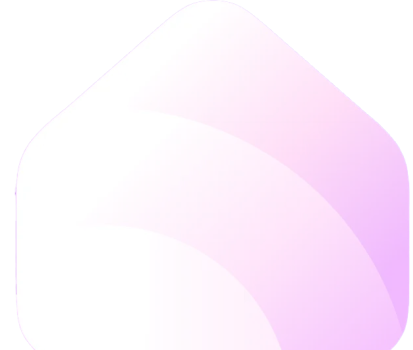
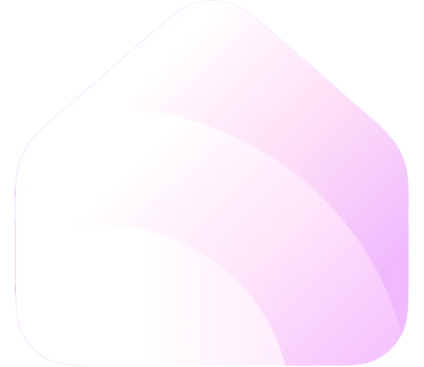
xXx

diff --git a/scss/style.scss b/scss/style.scss
@@ -723,8 +723,8 @@ h1 {
 .lights-footer-button:after {
     content: "";
     position: absolute;
-    bottom: calc(225/1117*100dvh);
-    right: calc(163/1117*100dvh);
+    bottom: calc(207/1117*100dvh);
+    right: calc(153/1117*100dvh);
     width: calc(424/1117*100dvh);
     height: calc(367/1117*100dvh);
     background: url('../img/smart-home.png') bottom right no-repeat;
@@ -733,9 +733,17 @@ h1 {
 }
 
 .lights-footer-button-arrow {
-    margin: calc(294/1117*100dvh) 0 0 calc(235/1117*100dvh);
-    width: calc(257/1117*100dvh);
-    height: calc(167/1117*100dvh);
+    margin: calc(200/1117*100dvh) 0 0 calc(200/1117*100dvh);
+    width: calc(325/1117*100dvh);
+    height: calc(323/1117*100dvh);
+    background: url('../img/SVG/arrow_button.svg') center center no-repeat;
+    background-size: contain;
+}
+
+.footer-button-arrow {
+    margin: calc(143/1117*100dvh) 0 0 calc(185/1117*100dvh);
+    width: calc(315/1117*100dvh);
+    height: calc(323/1117*100dvh);
     background: url('../img/SVG/arrow_button.svg') center center no-repeat;
     background-size: contain;
 }

diff --git a/scss/dist/style.css b/scss/dist/style.css
@@ -722,8 +722,8 @@ h1 {
 .lights-footer-button:after {
   content: "";
   position: absolute;
-  bottom: calc(225/1117*100dvh);
-  right: calc(163/1117*100dvh);
+  bottom: calc(207/1117*100dvh);
+  right: calc(153/1117*100dvh);
   width: calc(424/1117*100dvh);
   height: calc(367/1117*100dvh);
   background: url("../img/smart-home.png") bottom right no-repeat;
@@ -732,9 +732,17 @@ h1 {
 }
 
 .lights-footer-button-arrow {
-  margin: calc(294/1117*100dvh) 0 0 calc(235/1117*100dvh);
-  width: calc(257/1117*100dvh);
-  height: calc(167/1117*100dvh);
+  margin: calc(200/1117*100dvh) 0 0 calc(200/1117*100dvh);
+  width: calc(325/1117*100dvh);
+  height: calc(323/1117*100dvh);
+  background: url("../img/SVG/arrow_button.svg") center center no-repeat;
+  background-size: contain;
+}
+
+.footer-button-arrow {
+  margin: calc(143/1117*100dvh) 0 0 calc(185/1117*100dvh);
+  width: calc(315/1117*100dvh);
+  height: calc(323/1117*100dvh);
   background: url("../img/SVG/arrow_button.svg") center center no-repeat;
   background-size: contain;
 }

diff --git a/css/style.css b/css/style.css
@@ -788,8 +788,8 @@ h1 {
 .lights-footer-button:after {
   content: "";
   position: absolute;
-  bottom: 20.1432408236dvh;
-  right: 14.5926589078dvh;
+  bottom: 18.5317815577dvh;
+  right: 13.6974037601dvh;
   width: 37.9588182632dvh;
   height: 32.8558639212dvh;
   background: url("../img/smart-home.png") bottom right no-repeat;
@@ -798,9 +798,17 @@ h1 {
 }
 
 .lights-footer-button-arrow {
-  margin: 26.3205013429dvh 0 0 21.0384959714dvh;
-  width: 23.0080572963dvh;
-  height: 14.9507609669dvh;
+  margin: 17.9051029543dvh 0 0 17.9051029543dvh;
+  width: 29.0957923008dvh;
+  height: 28.9167412713dvh;
+  background: url("../img/SVG/arrow_button.svg") center center no-repeat;
+  background-size: contain;
+}
+
+.footer-button-arrow {
+  margin: 12.8021486124dvh 0 0 16.5622202328dvh;
+  width: 28.2005371531dvh;
+  height: 28.9167412713dvh;
   background: url("../img/SVG/arrow_button.svg") center center no-repeat;
   background-size: contain;
 }

diff --git a/cocktail-recipes-8.html b/cocktail-recipes-8.html
@@ -41,7 +41,7 @@
     <p class="cocktail-recipes-under-h1">Добавьте в шейкер пару крупных кубиков льда и потрясите его, чтобы охладить. Как закончите, лед нужно извлечь</p>
     <div class="coctail-recipes-bottle"></div>
     <a href="./cocktail-recipes-9.html" class="make-a-mix-footer-button">
-        <div class="lights-footer-button-arrow"></div>
+        <div class="footer-button-arrow"></div>
     </a>
 </body>
 </html>

diff --git a/cocktail-recipes-12.html b/cocktail-recipes-12.html
@@ -41,7 +41,7 @@
     <p class="cocktail-recipes-under-h1">Далее наполните глубокий бокал льдом доверху и вылейте в него содержимое шейкера</p>
     <div class="coctail-recipes-bottle"></div>
     <a href="./cocktail-recipes-13.html" class="make-a-mix-footer-button">
-        <div class="lights-footer-button-arrow"></div>
+        <div class="footer-button-arrow"></div>
     </a>
 </body>
 </html>

diff --git a/cocktail-recipes-5.html b/cocktail-recipes-5.html
@@ -41,7 +41,7 @@
     <p class="cocktail-recipes-under-h1">Аккуратно поместите продолговатую ложку в бокал и перемешайте ингредиенты</p>
     <div class="coctail-recipes-bottle"></div>
     <a href="./cocktail-recipes-6.html" class="make-a-mix-footer-button">
-        <div class="lights-footer-button-arrow"></div>
+        <div class="footer-button-arrow"></div>
     </a>
 </body>
 </html>

diff --git a/make-a-mix.html b/make-a-mix.html
@@ -40,7 +40,7 @@
     <p class="under-h1 age-verification-page-under-h1">Авторские коктейли помогут насладиться моментом.</p>
     <div class="make-a-mix-bottle"></div>
     <a href="./cocktail-recipes-1.html" class="make-a-mix-footer-button">
-        <div class="lights-footer-button-arrow"></div>
+        <p class="footer-button-text">Включить</p>
     </a>
 </body>
 </html>

diff --git a/cocktail-recipes-10.html b/cocktail-recipes-10.html
@@ -41,7 +41,7 @@
     <p class="cocktail-recipes-under-h1">Туда же добавляем 100 мл кордиала Texture Master Rhubarb & Sichuan Pepper</p>
     <div class="coctail-recipes-bottle"></div>
     <a href="./cocktail-recipes-11.html" class="make-a-mix-footer-button">
-        <div class="lights-footer-button-arrow"></div>
+        <div class="footer-button-arrow"></div>
     </a>
 </body>
 </html>

diff --git a/cocktail-recipes-6.html b/cocktail-recipes-6.html
@@ -41,7 +41,7 @@
     <p class="cocktail-recipes-under-h1">По желанию напиток можно украсить цедрой апельсина</p>
     <div class="coctail-recipes-bottle"></div>
     <a href="./cocktail-recipes-7.html" class="make-a-mix-footer-button">
-        <div class="lights-footer-button-arrow"></div>
+        <div class="footer-button-arrow"></div>
     </a>
 </body>
 </html>

diff --git a/cocktail-recipes-9.html b/cocktail-recipes-9.html
@@ -41,7 +41,7 @@
     <p class="cocktail-recipes-under-h1">Добавьте 50 мл джина Drumshanbo Gunpowder Irish Gin в шейкер</p>
     <div class="coctail-recipes-bottle"></div>
     <a href="./cocktail-recipes-10.html" class="make-a-mix-footer-button">
-        <div class="lights-footer-button-arrow"></div>
+        <div class="footer-button-arrow"></div>
     </a>
 </body>
 </html>

diff --git a/cocktail-recipes-4.html b/cocktail-recipes-4.html
@@ -41,7 +41,7 @@
     <p class="cocktail-recipes-under-h1">Туда же добавляем 100 мл тоника Rocket Tonic Classic</p>
     <div class="coctail-recipes-bottle"></div>
     <a href="./cocktail-recipes-5.html" class="make-a-mix-footer-button">
-        <div class="lights-footer-button-arrow"></div>
+        <div class="footer-button-arrow"></div>
     </a>
 </body>
 </html>

diff --git a/cocktail-recipes-2.html b/cocktail-recipes-2.html
@@ -41,7 +41,7 @@
     <p class="cocktail-recipes-under-h1">Наполните глубокий бокал льдом доверху</p>
     <div class="coctail-recipes-bottle"></div>
     <a href="./cocktail-recipes-3.html" class="make-a-mix-footer-button">
-        <div class="lights-footer-button-arrow"></div>
+        <div class="footer-button-arrow"></div>
     </a>
 </body>
 </html>
